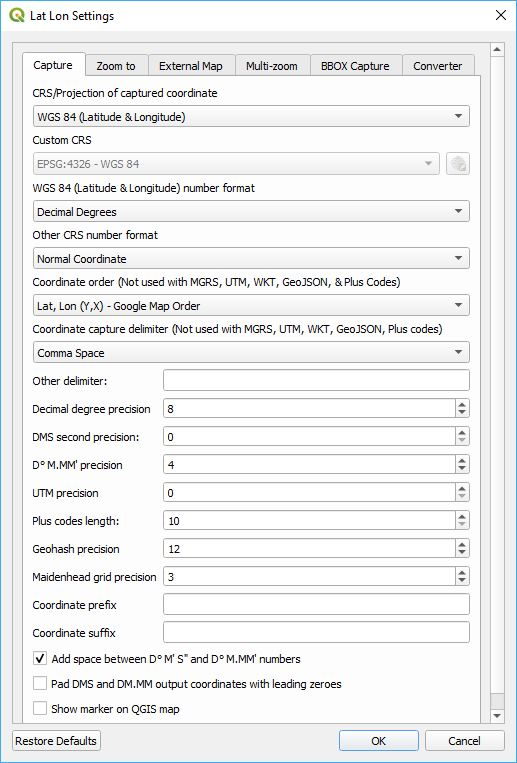
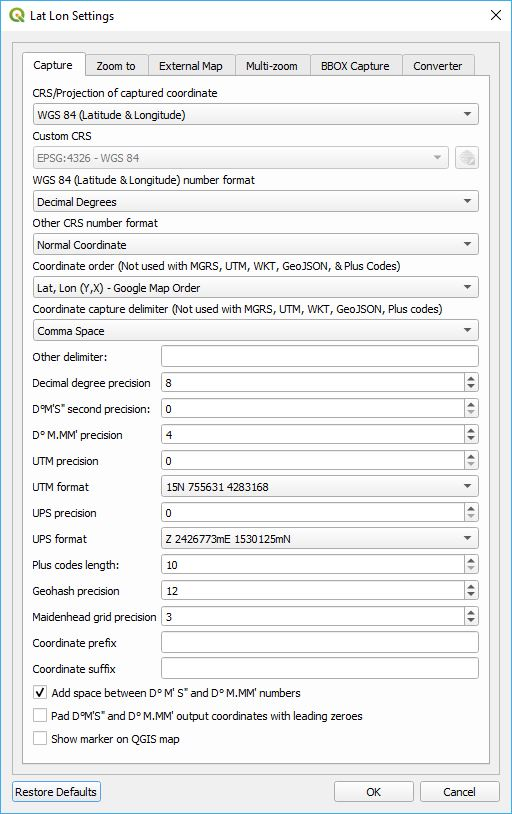
update documentation to add UPS

Changed region(s): [[0.0, 0.0603, 1.0, 1.0], [0.0, 0.0, 0.2188, 0.0301], [0.9688, 0.0, 1.0, 0.0301]]

diff --git a/index.html b/index.html
@@ -64,7 +64,13 @@ code {
 <li>Degree, Minute, Second: 004656S, 0093917E (ddmmss, dddmmss)- Notice the need for 0 padding in the decimal degree digits.</li>
 <li>WKT: POINT(-95.265483 38.959390)</li>
 <li>GeoJSON: {"type": "Point","coordinates": [-95.265483,38.959390]}</li>
-<li>Standard WGS84 UTM: 15N 303704.9 4314710.9 (zone easting northing)</li>
+<li>Standard WGS84 UTM: Note that the UTM standard does not include the MGRS latitude band which some use. Lat Lon Tools uses the proper UTM standard with zone and hemisphere where hemisphere is either N (north of the equator) or S (south of the equator).<ul>
+<li>15N 303704.9 4314710.9 (ZoneHemisphere Easting Northing)</li>
+<li>303704.9,4314710.9,15N (Easting,Northing,ZoneHemisphere)</li>
+<li>303704.9mE,4314710.9mN,15N (Easting,Northing,ZoneHemisphere)</li>
+<li>303704.9mE,4314710.9mN,15,N (Easting,Northing,Zone,Hemisphere)</li>
+</ul>
+</li>
 <li>Example MGRS coordinate when <strong>Zoom to Coordinate Type</strong> is set to <strong><em>MGRS</em></strong>: 15S UD 03704 14710</li>
 <li>Example Plus Code coordinate when <strong>Zoom to Coordinate Type</strong> is set to <strong><em>Plus Codes</em></strong>: 86C6XP5M+QR</li>
 <li>Example Geohash coordinate when <strong>Zoom to Coordinate Type</strong> is set to <strong><em>Geohash</em></strong>: 9yum8hmfckem</li>

diff --git a/readme.md b/readme.md
@@ -12,11 +12,11 @@ Some of the functions can be accessed from the ***Lat Lon Tools*** toolbar. If f
 
 <div style="text-align:center"><img src="doc/toolbar.jpg" alt="Lat Lon Tools toolbar"></div>
 
-* <img src="images/copyicon.svg" alt="Copy/Display coordinate"> ***Copy/Display Coordinate*** - This captures coordinates onto the clipboard when the user clicks on the map, using the standard Google Map format or a format specified in ***Settings***. If the user specifies a **Tab** separator, then the coordinate can be pasted into a spreadsheet in separate columns. While this tool is selected, the coordinate the mouse is over is shown in the lower left-hand corner either in **decimal degrees**, **DMS**, **Degrees Minutes**, **MGRS**, **Standard UTM**, **Plus Codes (Open Location Code)**, **Geohash**, **Maidenhead Grid Locator**, **WKT POINT**, or **GeoJSON** notation depending on the **Settings**. By default it uses the geographic Latitude and Longitude to snapshot the coordinate, but this can be configured in **Settings** to use the project CRS or any other projection desired. See the **Settings** section for more details on the all the possibilities. An additional prefix or suffix can be added to the coordinate and is configured in **Settings**. If snapping is enabled under QGIS ***Project->Snapping Options...*** menu, then *Copy/Display Coordinate* will snap to any close vector vertices according to the parameters set in the snapping options.
+* <img src="images/copyicon.svg" alt="Copy/Display coordinate"> ***Copy/Display Coordinate*** - This captures coordinates onto the clipboard when the user clicks on the map, using the standard Google Map format or a format specified in ***Settings***. If the user specifies a **Tab** separator, then the coordinate can be pasted into a spreadsheet in separate columns. While this tool is selected, the coordinate the mouse is over is shown in the lower left-hand corner either in **decimal degrees**, **DMS**, **Degrees Minutes**, **MGRS**, **Standard UTM**, **UPS**, **Plus Codes (Open Location Code)**, **Geohash**, **Maidenhead Grid Locator**, **WKT POINT**, or **GeoJSON** notation depending on the **Settings**. By default it uses the geographic Latitude and Longitude to snapshot the coordinate, but this can be configured in **Settings** to use the project CRS or any other projection desired. See the **Settings** section for more details on the all the possibilities. An additional prefix or suffix can be added to the coordinate and is configured in **Settings**. If snapping is enabled under QGIS ***Project->Snapping Options...*** menu, then *Copy/Display Coordinate* will snap to any close vector vertices according to the parameters set in the snapping options.
   
 * <img src="images/mapicon.png" width=24 height=24 alt="Show in External Map"> ***Show in External Map*** - With this tool, the user can click on the QGIS map which launches an external browser and displays the location on an external map. The left and right mouse buttons can be configured to show different maps. Currently Open Street Map, Google Maps, MapQuest, Mapillary, Open Street Map iD Editor, and Bing Maps are supported along with Google Earth if it is installed on the system. The desired map that is displayed can be configured in ***Settings*** along with additional user added map services. A temporary marker can be displayed on the map at the location clicked on. To turn this on go to **Settings**. If snapping is enabled, then the clicked location will snap to any close vector vertices according to the parameters set in the snapping options.
 
-* <img src="images/zoomicon.svg" alt="Zoom-to"> ***Zoom to Coordinate*** - With this tool, type or paste a coordinate into the text area and hit **Enter**. QGIS centers the map on the coordinate, highlights the location and creates a temporary marker at the location. Pressing the <img src="doc/zoomtool.jpg" alt="Zoom button"> also causes QGIS to zoom to that location. The marker can be removed with the <img src="doc/cleartool.jpg" alt="Clear marker"> button. Pressing <img src="doc/pastecoord.jpg" alt="paste coordinate"> **Paste Coordinate from Clipboard** button pastes the contents of the clipboard into the text area. If the default **WGS 84** (EPSG:4326 - latitude/longitude) coordinate system is specified, ***Zoom to Coordinate*** can interpret **decimal degrees**, **DMS**, **WKT POINT**, **Standard UTM**, **MGRS**, **Plus Codes (Open Location Code)**, or **GeoJSON** coordinates. It can also zoom to **Geohash** coordinates, amateur radio Maidenhead grid coordinates, or any other projection when configured in **Settings**. The ***Coordinate Order*** in ***Settings*** dictates whether the order is latitude followed by longitude (Y,X) or longitude followed by latitude (X,Y). By default the order is "Latitude, Longitude", the format used by Google Maps. The behavior and coordinate types that are interpreted can be configured by pressing the **Settings** button <img src="doc/settings.png">.<br /><div style="text-align:center"><img src="doc/zoomto.jpg" alt="Zoom to Latitude, Longitude"></div><br />The following are acceptable coordinate formats when the ***Settings*** **Zoom to Coordinate Type** is set to ***WGS 84 (Latitude & Longitude)***. When the letters "N, S, E, W" are used, then the coordinate order is not important. These letters can be used before or after the coordinates. As long as the coordinate is understandable, punctuation, spaces, and &deg; ' " are optional. In these examples "d" represents degree digits, "m" minutes, and "s" seconds. Here are some example input formats:
+* <img src="images/zoomicon.svg" alt="Zoom-to"> ***Zoom to Coordinate*** - With this tool, type or paste a coordinate into the text area and hit **Enter**. QGIS centers the map on the coordinate, highlights the location and creates a temporary marker at the location. Pressing the <img src="doc/zoomtool.jpg" alt="Zoom button"> also causes QGIS to zoom to that location. The marker can be removed with the <img src="doc/cleartool.jpg" alt="Clear marker"> button. Pressing <img src="doc/pastecoord.jpg" alt="paste coordinate"> **Paste Coordinate from Clipboard** button pastes the contents of the clipboard into the text area. If the default **WGS 84** (EPSG:4326 - latitude/longitude) coordinate system is specified, ***Zoom to Coordinate*** can interpret **decimal degrees**, **DMS**, **WKT POINT**, **Standard UTM**, **UPS**, **MGRS**, **Plus Codes (Open Location Code)**, or **GeoJSON** coordinates. It can also zoom to **Geohash** coordinates, amateur radio Maidenhead grid coordinates, or any other projection when configured in **Settings**. The ***Coordinate Order*** in ***Settings*** dictates whether the order is latitude followed by longitude (Y,X) or longitude followed by latitude (X,Y). By default the order is "Latitude, Longitude", the format used by Google Maps. The behavior and coordinate types that are interpreted can be configured by pressing the **Settings** button <img src="doc/settings.png">.<br /><div style="text-align:center"><img src="doc/zoomto.jpg" alt="Zoom to Latitude, Longitude"></div><br />The following are acceptable coordinate formats when the ***Settings*** **Zoom to Coordinate Type** is set to ***WGS 84 (Latitude & Longitude)***. When the letters "N, S, E, W" are used, then the coordinate order is not important. These letters can be used before or after the coordinates. As long as the coordinate is understandable, punctuation, spaces, and &deg; ' " are optional. In these examples "d" represents degree digits, "m" minutes, and "s" seconds. Here are some example input formats:
 
     * Decimal Degree: 38.959390&deg;, -95.265483&deg; / 38.959390, -95.265483 / 38.959390N, 95.265483 W (d.dddd, d.dddd)
     * Degree, Minute: 38&deg; 57.5634'N 95&deg; 15.92890'W (d m.mmmm, d m.mmmm)
@@ -26,7 +26,14 @@ Some of the functions can be accessed from the ***Lat Lon Tools*** toolbar. If f
     * Degree, Minute, Second: 004656S, 0093917E (ddmmss, dddmmss)- Notice the need for 0 padding in the decimal degree digits.
     * WKT: POINT(-95.265483 38.959390)
     * GeoJSON: {"type": "Point","coordinates": [-95.265483,38.959390]}
-    * Standard WGS84 UTM: 15N 303704.9 4314710.9 (zone easting northing)
+    * Standard WGS84 UTM: Note that the UTM standard does not include the MGRS latitude band which some use. Lat Lon Tools uses the proper UTM standard with zone and hemisphere where hemisphere is either N (north of the equator) or S (south of the equator). UTM is valid from - 80&deg;S to 84&deg;N.
+        * 15N 303704.9 4314710.9 (ZoneHemisphere Easting Northing)
+        * 303704.9,4314710.9,15N (Easting,Northing,ZoneHemisphere)
+        * 303704.9mE,4314710.9mN,15N (Easting,Northing,ZoneHemisphere)
+        * 303704.9mE,4314710.9mN,15,N (Easting,Northing,Zone,Hemisphere)
+    * UPS (Universal Polar Stereographic): This is the equavalent to UTM except for the polar regions. It is defined north of 84&deg; and south of -80&deg;
+        * Z 2426773mE 1530125mN
+        * Z2426773E1530125N
     * Example MGRS coordinate when **Zoom to Coordinate Type** is set to ***MGRS***: 15S UD 03704 14710
     * Example Plus Code coordinate when **Zoom to Coordinate Type** is set to ***Plus Codes***: 86C6XP5M+QR
     * Example Geohash coordinate when **Zoom to Coordinate Type** is set to ***Geohash***: 9yum8hmfckem
@@ -139,7 +146,7 @@ Some of the functions can be accessed from the ***Lat Lon Tools*** toolbar. If f
 
 <div style="text-align:center"><img src="doc/settings.jpg" alt="Capture and Display Settings"></div>
 
-There are 6 capture projections/formats that can be selected from the ***CRS/Projection of captured coordinate*** drop down menu. They are as follows.
+There are 7 capture projections/formats that can be selected from the ***CRS/Projection of captured coordinate*** drop down menu. They are as follows.
 
 * **WGS 84 (Latitude & Longitude)** - This captures the coordinates as a latitude and longitude regardless of what the project CRS is set to. This is the default setting.
 * **Project CRS** - This captures the coordinates using the project's specified CRS.
@@ -149,6 +156,7 @@ There are 6 capture projections/formats that can be selected from the ***CRS/Pro
 * **Standard UTM** - This has the form of '12N 417159.0 4515540.6'
 * **Geohash** - This has the form of '9zpnbf0w9yuf'
 * Amateur Radio **Maidenhead Grid Locator** - This has the form of 'EM28ix'
+* **UPS** (Universal Polar Stereographic) - The string form of this format is one of the following: 'Z 2426773mE 1530125mN' or 'Z2426773E1530125N'
 
 Additional coordinate formatting can be specified with ***WGS 84 (Latitude & Longitude) Number Format***.
 
@@ -164,12 +172,12 @@ For ***Other CRS number format*** such as **Project CRS** or **Custom CRS** the 
 * **Normal Coordinate** - Decimal coordinate notation.
 * **WKT POINT**
 
-The order in which the coordinates are captured is determined by ***Coordinate order (Not used with MGRS, UTM, WKT, GeoJSON &amp; Plus codes)*** and are one of the following:
+The order in which the coordinates are captured is determined by ***Coordinate order (Not used with MGRS, UTM, UPS, WKT, GeoJSON &amp; Plus codes)*** and are one of the following:
 
 * **Lat, Lon (Y,X) - Google Map Order**
 * **Lon, Lat (X,Y) Order**.
 
-* ***Coordinate capture delimiter (Not used with MGRS, UTM, WKT, GeoJSON &amp; Plus codes)*** - Specifies the delimiter that separates the two coordinates. The options are:
+* ***Coordinate capture delimiter (Not used with MGRS, UTM, UPS, WKT, GeoJSON &amp; Plus codes)*** - Specifies the delimiter that separates the two coordinates. The options are:
     * **Comma** - Specifies a comma separator 
     * **Comma Space** - This is a comma followed by a space. 
     * **Tab** - This useful if you are pasting the coordinates into two columns of a spreadsheet.
@@ -177,7 +185,14 @@ The order in which the coordinates are captured is determined by ***Coordinate o
     * **Other** - With this selected, the contents of ***Other delimiter*** is used.
 * ***DMS second precision*** - Used when formatting DMS coordinates and specifies the number of digits after the decimal.
 * ***D&deg;MM' precision*** - Used when formatting D&deg;MM' coordinates and specifies the number of digits after the decimal for the minutes.
-* ***UTM precision*** - Used when formatting UtM coordinates and specifies the number of digits after the decimal.
+* ***UTM precision*** - Used when formatting UTM coordinates and specifies the number of digits after the decimal.
+* ***UTM format*** - This specifies a UTM string format and is one of the following:
+    * '15N 755631 4283168'
+    * '755631,4283168,15N'
+    * '755631mE,4283168mN,15N'
+    * '755631mE,4283168mN,15,N'
+* **UPS precision** - Used when formatting UPS coordinates and specifies the number of digits after the decimal.
+* **UPS format** - This specifies a UPS string format and is one of the following: 'Z 2426773mE 1530125mN' or 'Z2426773E1530125N'
 * ***Plus codes length*** - Used when formatting Plus Code coordinates. The minimum value is 10.
 * ***Geohash precision*** - Used when formatting Geohash coordinates.
 * ***Maidenhead grid precision*** - Used when formatting Amateur Radio Maidenhead grid coordinates.The value ranges from 1 to 4.
@@ -193,7 +208,7 @@ The order in which the coordinates are captured is determined by ***Coordinate o
 
 The ***Zoom to Latitude, Longitude*** tool accepts the following input coordinates as specified by ***Zoom to Coordinate Type***:
 
-* **WGS 84 (Latitude & Longitude) / Auto Detect Format** - Input coordinates can be either in decimal degrees, DMS degrees, WKT, or GeoJSON. For decimal and DMS formats, the order of the coordinates are determined by ***Zoom to Coordinate Order***. It also auto detects MGRS, Plus Codes, and Standard UTM formats so it is generally unnecessary to specify them separately.
+* **WGS 84 (Latitude & Longitude) / Auto Detect Format** - Input coordinates can be either in decimal degrees, DMS degrees, WKT, or GeoJSON. For decimal and DMS formats, the order of the coordinates are determined by ***Zoom to Coordinate Order***. It also auto detects MGRS, Plus Codes, Standard UTM, and UPS formats so it is generally unnecessary to specify them separately.
 * **Project CRS** - This accepts coordinates formatted in the CRS of the QGIS project. The numbers can be formatted in decimal or WKT notation.
 * **Custom CRS** - You can specify any CRS for the input coordinates and QGIS zooms to that coordinate regardless of the project CRS. The numbers can be formatted in decimal or WKT notation.
 * **MGRS** - This only accepts [MGRS](https://en.wikipedia.org/wiki/Military_grid_reference_system) coordinates as input.
@@ -327,6 +342,9 @@ These are the default settings for the ***Coordinate Conversion*** dialog box.
 * ***DMS seconds precision*** is the number of decimal digits for the second in a DMS formatted coordinate.
 * ***D&deg;MM' precision*** is the number of decimal digits for the minute in a D&deg;MM' formatted coordinate.
 * ***UTM precision*** specifies the number of decimal digits for a UTM formatted coordinate.
+* ***UTM format*** specifies one of these formats to be displayed: '15N 755631 4283168', '755631,4283168,15N','755631mE,4283168mN,15N', or '755631mE,4283168mN,15,N'.
+* ***UPS precision*** specifies the number of decimal digits for a UPS formatted coordinate.
+* ***UPS format*** specifies one of these formats to be displayed: 'Z 2426773mE 1530125mN', or 'Z2426773E1530125N'.
 * ***Plus codes length*** is the number of digits in a plus code coordinate.
 * ***Geohash precision*** is the number of digits in a geohash coordinate.
 * ***Delimiter between coordinate pairs*** is the delimiter used between coordinate pairs for those representations that require a delimiter.
